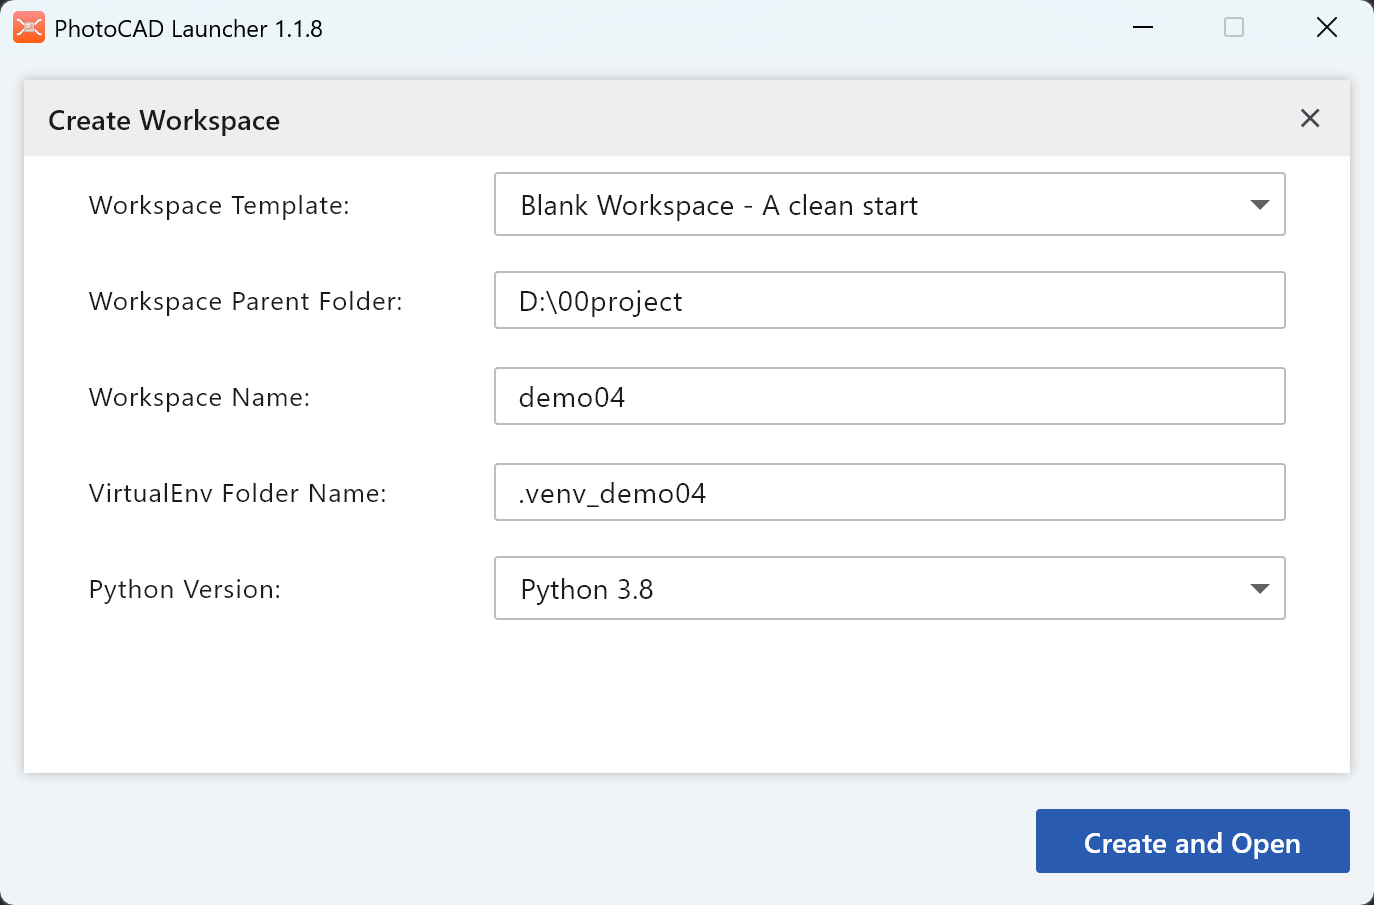
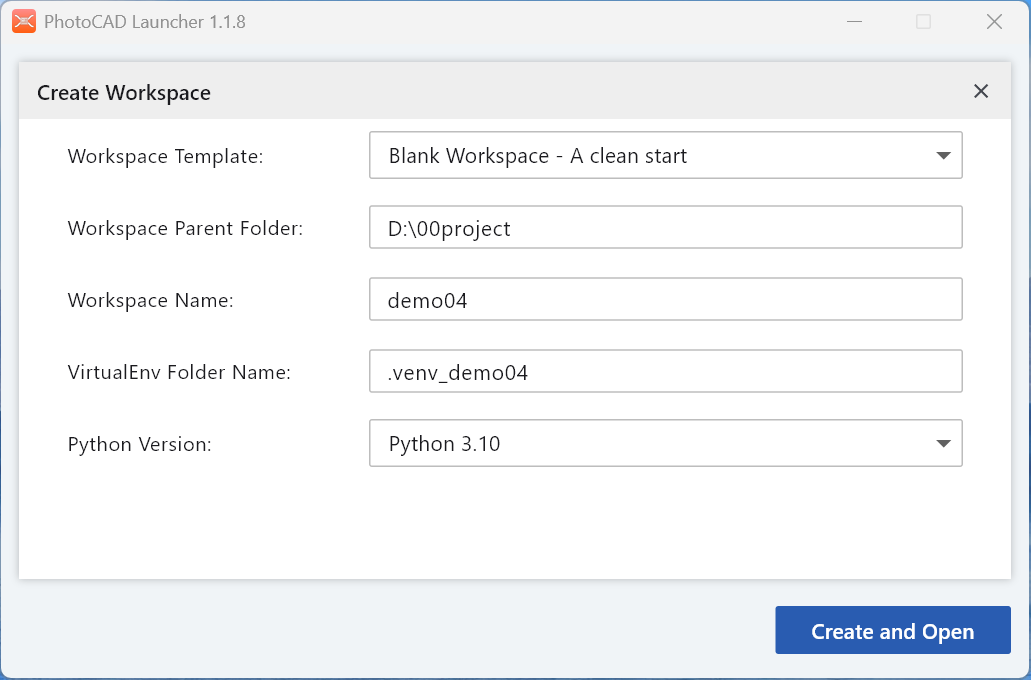
update_261012

diff --git a/docs/source/structure/index.rst b/docs/source/structure/index.rst
@@ -3,7 +3,7 @@ PDK structure
 
 Process Design Kit (PDK) is a tool for designated users to generate circuit layouts based on Tower Semiconductor design rules and technology settings.
 
-``towersemi_ph18mab`` package includes six subfolders: ``components``, ``examples``, ``schematic``, ``symbols``, ``technology``, and ``util``.
+``towersemi_ph18mab`` package includes five subfolders: ``components``, ``examples``, ``schematic``, ``symbols`` and ``technology``.
 
 * ``components``
 
@@ -28,12 +28,6 @@ Process Design Kit (PDK) is a tool for designated users to generate circuit layo
     * Store the technology setting which matched the Tower Semiconductor design rules. We recommend users not to change the settings in technology folder.
 
     * See chapter ``Technology setting`` for more specific definition.
-
-* ``util``
-
-    * Useful functions when generating circuit layouts.
-
-    * Please see **PhotoCAD** online manual for more information.
 
 * ``towersemi_ph18mab.lyp`` : This file allows layout tools e.g. KLayout to recognize the layer information when displaying gds file to the layout tool.
 

diff --git a/docs/source/tech/layers.rst b/docs/source/tech/layers.rst
@@ -5,7 +5,7 @@ The layers are auto-generated by filling the ``layers.csv`` file, ``FLYLINE_MARK
 
 ::
 
-    class LAYER(BASE_LAYER):
+    class LAYER(TECH.LAYER):
         swg = Layer(PROCESS.swg, PURPOSE.drawing, 'Strip waveguide')
         rwg = Layer(PROCESS.rwg, PURPOSE.drawing, 'ridge waveguide')
         revswg = Layer(PROCESS.revswg, PURPOSE.drawing, 'reverse strip WG')

diff --git a/docs/source/quick_start/PhotoCAD.rst b/docs/source/quick_start/PhotoCAD.rst
@@ -31,7 +31,7 @@ Configure the workspace in the pop-up window.
 
 * ``Python Version``
 
-    * Select the Python version. We recommend that users select Python 3.8.
+    * Select the Python version. We recommend that users select Python 3.10.
 
 .. image:: ../images/PhotoCAD_2.png
 
